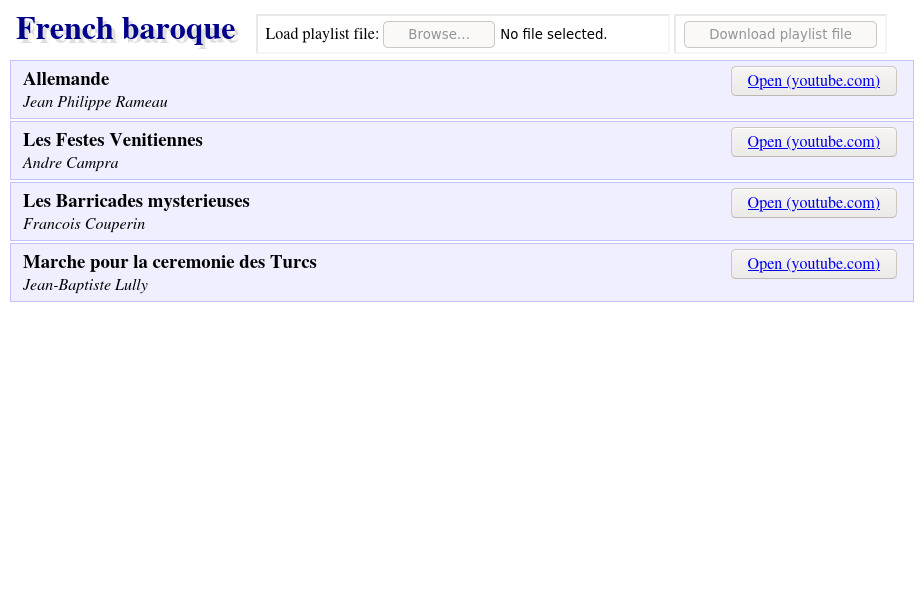
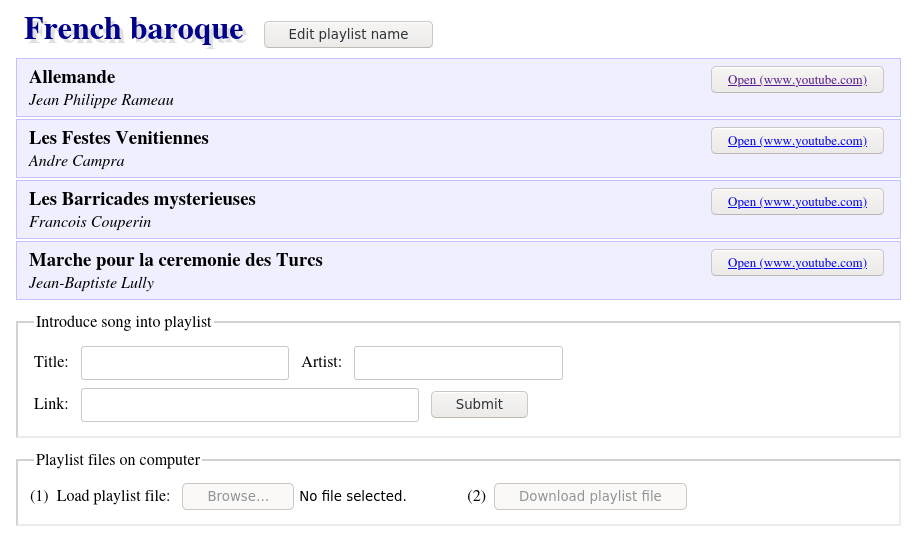
Added rudimentary, temporary CRUD

diff --git a/Playlists/Playlists.js b/Playlists/Playlists.js
@@ -31,9 +31,9 @@ Vue.component('extlink', {
 	computed: {
 		"domain": function() {
 			var match = this.link.match(
-				/(.*):\/\/(.*?\.)?(.*)\/.*/
+				/(.*):\/\/(.*?)\/.*/
 			);
-			return (match) ? match[3] : null;
+			return (match) ? match[2] : null;
 		}
 	}
 });
@@ -53,8 +53,42 @@ Vue.component('song', {
 	`
 });
 
+Vue.component('playlist-info', {
+	props: [ 'playlist' ],
+	template: `
+		<div class='playlist-info'>
+			<template v-if="!editingName">
+				<h1 class='name'>{{ playlist.name }}</h1>
+				<button @click='startEditing'>Edit playlist name</button>
+			</template>
+			<template v-else>
+				<label for='input-name'>Playlist name:</label>
+				<input id='input-name' type='text' v-model='editedName' />
+				<button @click='stopEditing(true)'>Save</button>
+				<button @click='stopEditing(false)'>Cancel</button>
+			</template>
+		</div>
+	`,
+	data: function() {
+		return {
+			editingName: false,
+			editedName: this.playlist.name
+		};
+	},
+	methods: {
+		"startEditing": function() {
+			this.editedName = this.playlist.name;
+			this.editingName = true;
+		},
+		"stopEditing": function(confirm) {
+			if (confirm) this.playlist.name = this.editedName;
+			this.editingName = false;
+		},
+	}
+});
+
 var app = new Vue({
-	el: "#root",
+	el: "#vue",
 	data: {
 		playlist: {
 			name: 'French baroque',
@@ -80,6 +114,26 @@ var app = new Vue({
 					link: "https://www.youtube.com/watch?v=Sy-yugPw_X8"
 				}
 			]
+		}
+	},
+	methods: {
+		"inputSong": function() {
+			const titleInput = document.getElementById("input-title");
+			const artistInput = document.getElementById("input-artist");
+			const linkInput = document.getElementById("input-link");
+			var song = {
+				title: titleInput.value,
+				artist: artistInput.value,
+				link: linkInput.value
+			};
+			if (!song.title || !song.artist || !song.link) {
+				return;
+				// We should be indicating an error..
+			}
+			this.playlist.songs.push(song);
+			titleInput.value = "";
+			artistInput.value = "";
+			linkInput.value = "";
 		}
 	}
 });

diff --git a/Playlists/Playlists.html b/Playlists/Playlists.html
@@ -26,23 +26,33 @@ along with this program.  If not, see <https://www.gnu.org/licenses/>.
 	
 	<BODY>
 	
-		<DIV ID="root">
-			<DIV ID="top">
-				<H1 CLASS="title">{{ playlist.name }}</H1>		
-				<SPAN>
-					<LABEL FOR='load'>Load playlist file: </LABEL>
-					<INPUT DISABLED ID='load' TYPE='file' ACCEPT=".json" />
-				</SPAN>
-				<SPAN>
-					<BUTTON DISABLED ID='save'>Download playlist file</BUTTON>
-				</SPAN>
-				</SPAN>
-			</DIV>
-			<SONG
-				V-FOR="song in playlist.songs"
-				:KEY="song.artist + ':' + song.title"
-				:SONG="song"
-			/>
+		<DIV ID="vue">
+			<PLAYLIST-INFO :PLAYLIST="playlist"></PLAYLIST-INFO>
+			<TEMPLATE>
+				<SONG
+					V-FOR="song in playlist.songs" :SONG="song"
+					:KEY="song.artist + ':' + song.title"
+				/>
+			</TEMPLATE>
+			<FIELDSET ID="compose">
+				<LEGEND>Introduce song into playlist</LEGEND>
+				<LABEL FOR="input-title">Title: </LABEL>
+				<INPUT ID="input-title" TYPE="text"></INPUT>
+				<LABEL FOR="input-artist">Artist: </LABEL>
+				<INPUT ID="input-artist" TYPE="text"></INPUT>
+				<BR>
+				<LABEL FOR="input-link">Link: </LABEL>
+				<INPUT ID="input-link" TYPE="text"></INPUT>
+				<BUTTON @CLICK="inputSong">Submit</BUTTON>
+			</FIELDSET>
+			<FIELDSET ID="local-io">
+				<LEGEND>Playlist files on computer</LEGEND>
+				(1)
+				<LABEL FOR='load'>Load playlist file: </LABEL>
+				<INPUT DISABLED ID='load' TYPE='file' ACCEPT=".json" />
+				(2)
+				<BUTTON DISABLED ID='save'>Download playlist file</BUTTON>
+			</FIELDSET>
 		</DIV>
 		
 		<DIV ID="nojs">

diff --git a/Playlists/Playlists.css b/Playlists/Playlists.css
@@ -16,15 +16,7 @@ You should have received a copy of the GNU General Public License
 along with this program.  If not, see <https://www.gnu.org/licenses/>.
 */
 
-body {
-	margin: 8px;
-}
-
-#top {
-	margin-bottom: 10px;
-}
-
-#top > .title {
+.playlist-info .name {
 	display: inline;
 	margin-left: 8px;
 	margin-right: 16px;
@@ -33,15 +25,11 @@ body {
 	text-shadow: 4px 4px #00000020;
 }
 
-#top > span {
-	border: 2px inset #00000020;
-	padding: 8px;
-}
 
-
-.song {
+#vue > .song {
 	display: grid;
-	margin: 2px;
+	margin-top: 0;
+	margin-bottom: 2px;
 	padding: 6px 12px;
 	
 	background-color: #0000FF10;
@@ -71,4 +59,23 @@ body {
 	-moz-appearance: button;
 	-webkit-appearance: button;
 	appearance: button;
+	font-size: small;
+}
+
+
+fieldset {
+	border: 2px inset #00000040;
+}
+
+fieldset > * {
+	margin: 4px;
+}
+
+#input-link {
+	width: 24em;
+}
+
+
+#vue > * {
+	margin: 8px;
 }

diff --git a/Playlists/readme.md b/Playlists/readme.md
@@ -1,3 +1,3 @@
 
-![Screenshot of the app. At the top is 'French baroque' in large type, followed by a 'Load playlist file' and 'Download playlist file' sections, which are disabled. Below the top is a vertical list of boxes, each with a song title and artist on the left, and a button labeled 'Open' on the right. The page elements have blue colour tones.](screenshot.png)
+![Screenshot of the app, organised as a vertical list of sections. First a playlist title with an edit button. Then a series of song boxes, each with song title and artist on the left and 'Open' button on the right. Then an 'introduce song into playlist' for inputting new songs. Then 'playlist files on computer', with disabled buttons for loading a playlist file and downloading one.](screenshot.png)
 
